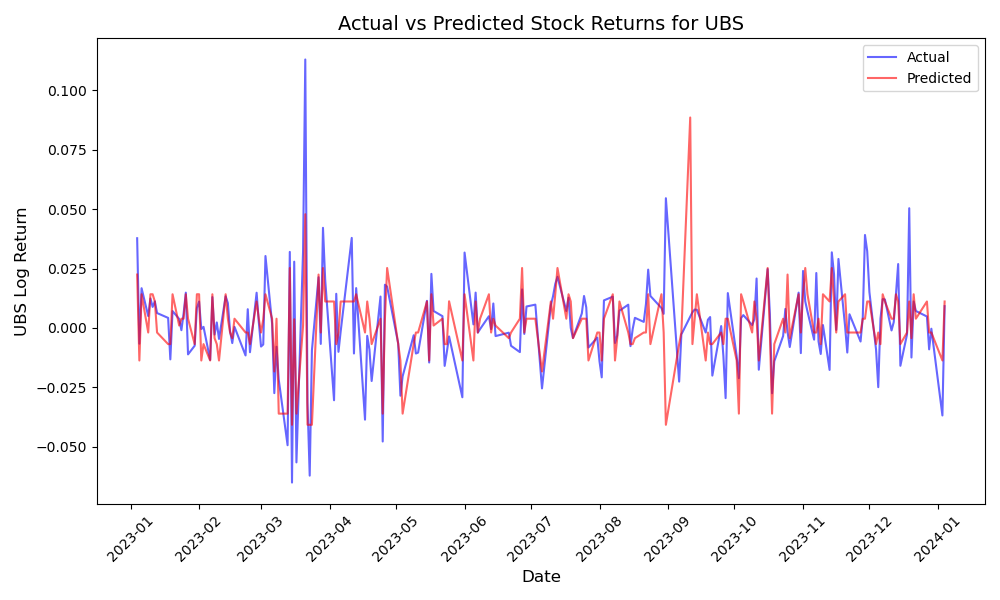
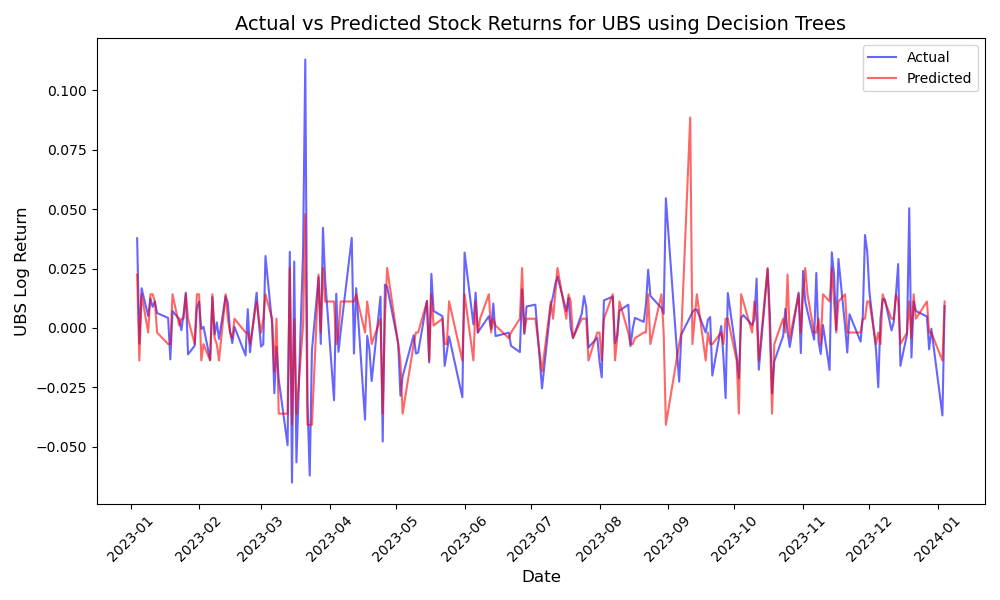
hyperparameter tuning for random forest

Changed region(s): [[0.217, 0.03, 0.837, 0.06]]

diff --git a/model/randomForest.py b/model/randomForest.py
@@ -5,7 +5,6 @@ import matplotlib.pyplot as plt
 import matplotlib.dates as mdates
 
 # from sklearn.model_selection import GridSearchCV
-
 # Load training and test datasets
 train = pd.read_csv(
     r"C:\Users\DELL\OneDrive\Desktop\IDS789-Financial-Model-Project\data_prepared\training_dataset.csv"
@@ -25,7 +24,7 @@ X_test = test.drop(columns=["UBS log_return", "Date"])
 y_test = test["UBS log_return"]
 
 # Initialize Random Forest
-rf_model = RandomForestRegressor(n_estimators=100, max_depth=5, random_state=42)
+rf_model = RandomForestRegressor(n_estimators=100, max_depth=10, random_state=42)
 
 # Train and evaluate
 rf_model.fit(X_train, y_train)
@@ -50,10 +49,34 @@ plt.title("Actual vs Predicted Stock Returns for UBS using Random Forest", fonts
 plt.xlabel("Date", fontsize=12)
 plt.ylabel("UBS Log Return", fontsize=12)
 plt.legend()
-plt.tight_layout()  # Adjust layout to fit labels
+plt.tight_layout()
 plt.savefig(
     r"C:\Users\DELL\OneDrive\Desktop\IDS789-Financial-Model-Project\model\randomforest.png"
 )
-
-# Show the plot
 plt.show()
+
+
+# rf = RandomForestRegressor()
+
+# # Set up hyperparameters to tune
+# param_grid = {
+#     'n_estimators': [100, 200, 300],
+#     'max_depth': [10, 20, None],
+#     'min_samples_split': [2, 5, 10],
+#     'min_samples_leaf': [1, 2, 4],
+#     'max_features': ['auto', 'sqrt', 'log2'],
+#     'bootstrap': [True, False]
+# }
+
+# # GridSearchCV to find the best hyperparameters
+# grid_search = GridSearchCV(estimator=rf, param_grid=param_grid, cv=5, n_jobs=-1, verbose=2)
+
+# # Fit the model
+# grid_search.fit(X_train, y_train)
+
+# # Print the best hyperparameters
+# print(f"Best Hyperparameters: {grid_search.best_params_}")
+
+# # Use the best estimator to predict
+# best_rf = grid_search.best_estimator_
+# y_pred = best_rf.predict(X_test)

diff --git a/model/decisionTrees.py b/model/decisionTrees.py
@@ -57,7 +57,7 @@ plt.title("Actual vs Predicted Stock Returns for UBS using Decision Trees", font
 plt.xlabel("Date", fontsize=12)
 plt.ylabel("UBS Log Return", fontsize=12)
 plt.legend()
-plt.tight_layout()  # Adjust layout to fit labels
+plt.tight_layout()
 plt.savefig(
     r"C:\Users\DELL\OneDrive\Desktop\IDS789-Financial-Model-Project\model\decisiontree.png"
 )
